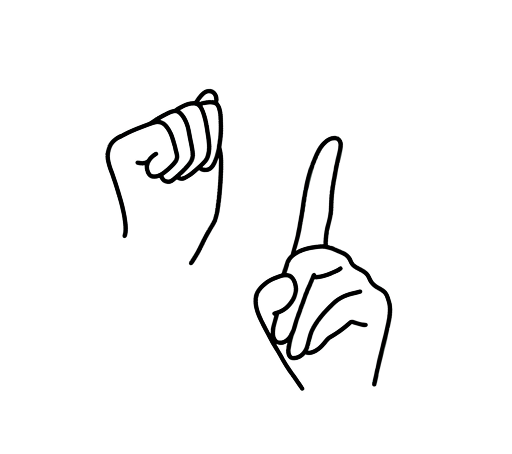
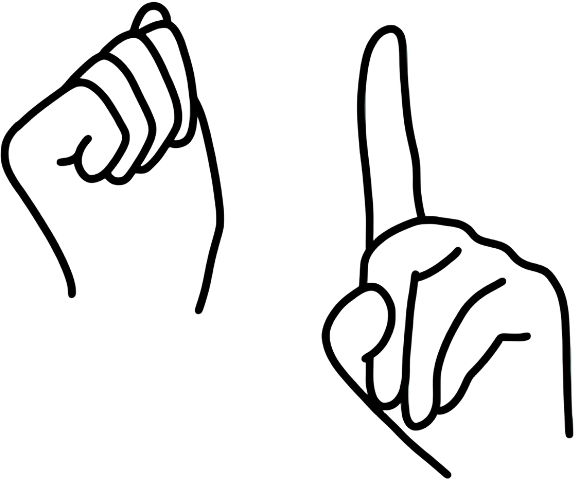
update

Changed region(s): [[0.4688, 0.0308, 1.0, 1.0], [0.0, 0.0, 0.4375, 0.6476]]

diff --git a/PJ_Interact_Web/PJ_HandyBridge_InteracWeb/src/services/openaiService.ts b/PJ_Interact_Web/PJ_HandyBridge_InteracWeb/src/services/openaiService.ts
@@ -8,6 +8,57 @@ export interface ChatMessage {
   timestamp: Date;
 }
 
+interface KnowledgeItem {
+  keywords: string[];
+  answer: string;
+}
+
+// Knowledge Base สำหรับคำตอบที่กำหนดไว้
+const knowledgeBase: KnowledgeItem[] = [
+  {
+    keywords: ["เว็บนี้", "เว็บไซต์", "handy bridge", "แพลตฟอร์ม", "ระบบ", "ฟีเจอร์", "มีอะไรบ้าง"],
+    answer: "Handy Bridge เป็นแพลตฟอร์มที่เกิดจากความเชื่อว่าภาษามือเป็นภาษาที่สวยงามและสมบูรณ์แบบ ที่นี่จะช่วยให้คุณได้เรียนรู้ตัวอักษร คำศัพท์ในชีวิตประจำวัน และประโยคที่สำคัญ พร้อมด้วยแบบฝึกหัดที่หลากหลาย\n\nเราเชื่อว่าภาษามือไม่ใช่แค่เครื่องมือสื่อสาร แต่เป็นสะพานเชื่อมที่จะทำให้ชุมชนคนหูหนวกและคนฟังได้มีโอกาสเข้าใจกันมากขึ้น สร้างสังคมที่ทุกคนมีส่วนร่วมอย่างเท่าเทียม"
+  },
+  {
+    keywords: ["ใช้ยังไง", "วิธีใช้", "เริ่มต้น", "การใช้งาน", "เริ่มต้นยังไง"],
+    answer: "การเริ่มต้นเรียนภาษามือเป็นการเปิดประตูสู่โลกใหม่ที่งดงาม ขั้นแรกสมัครสมาชิกแล้วเข้าสู่เมนูเรียนรู้ เริ่มจากตัวอักษรก่อน เพราะนั่นคือรากฐานสำคัญ\n\nเรียนไปตามจังหวะของตัวเอง ไม่ต้องรีบร้อน เมื่อรู้สึกมั่นใจแล้วค่อยไปลองทำแบบฝึกหัด ทุกคำถามและข้อสงสัยของคุณมีค่า อย่าลังเลที่จะมาคุยกับฉันเมื่อไหร่ก็ได้"
+  },
+  {
+    keywords: ["ฟรี", "เสียเงิน", "ค่าใช้จ่าย", "ราคา", "เสียตังค์"],
+    answer: "การเรียนรู้ภาษามือควรเป็นสิทธิของทุกคน ไม่ใช่สิทธิพิเศษของใครบางคน เราจึงเปิดให้ใช้งานฟรีทุกฟีเจอร์ เพราะเชื่อว่าการสื่อสารที่ดีไม่ควรมีราคา\n\nนี่เป็นโครงการที่เกิดจากหัวใจที่อยากเห็นสังคมไทยที่ทุกคนได้รับการยอมรับ ไม่ว่าจะสื่อสารด้วยเสียงหรือด้วยมือ ทุกคนล้วนมีคุณค่าเท่าเทียมกัน"
+  },
+  {
+    keywords: ["ทำไม", "วัตถุประสงค์", "เป้าหมาย", "จุดมุ่งหมาย", "สร้างทำไม"],
+    answer: "ชุมชนคนหูหนวกมีวัฒนธรรมและภาษาที่เป็นเอกลักษณ์และสวยงาม Handy Bridge เกิดขึ้นเพื่อให้คนฟังได้เห็นความงดงามของภาษามือ และเพื่อให้ชุมชนคนหูหนวกได้รับการเข้าใจมากขึ้น เป้าหมายของเราคือสังคมที่ทุกคนสามารถแสดงออกและสื่อสารได้อย่างเต็มที่"
+  },
+  {
+    keywords: ["เรียนนานไหม", "ยาก", "ง่าย", "เวลา", "นานแค่ไหน"],
+    answer: "ภาษามือเป็นภาษาที่สมบูรณ์และมีระบบไวยากรณ์ของตัวเอง เหมือนกับภาษาพูดทุกภาษา การเรียนรู้จึงต้องใช้เวลาและความอดทน แต่ทุกขั้นตอนล้วนมีความหมาย\n\nในช่วง 1-2 เดือนแรกคุณจะเริ่มคุ้นเคยกับตัวอักษรและคำพื้นฐาน ส่วนการสื่อสารที่ลื่นไหลนั้นขึ้นอยู่กับการฝึกฝนอย่างสม่ำเสมอ จุดสำคัญคือการเรียนรู้ด้วยความเคารพและความเข้าใจต่อวัฒนธรรมคนหูหนวก"
+  },
+  {
+    keywords: ["คนหูหนวก", "สื่อสาร", "พูดคุย", "คุยกับคนหูหนวก", "หูหนวก", "พิการทางการได้ยิน"],
+    answer: "ชุมชนคนหูหนวกมีวิธีการสื่อสารที่หลากหลายและสร้างสรรค์ นอกจากภาษามือแล้ว ยังมีการอ่านปาก การเขียน การใช้เทคโนโลยี และการสื่อสารด้วยสีหน้าท่าทางที่ลึกซึ้ง\n\nสิ่งสำคัญที่สุดคือการมองเขาในฐานะเพื่อนมนุษย์ที่มีความสามารถและศักยภาพเต็มตัว ไม่ใช่คนที่ต้องการความสงสาร ภาษามือที่คุณเรียนจะเป็นการแสดงความเคารพต่อวัฒนธรรมของเขา และเป็นก้าวแรกสู่มิตรภาพที่แท้จริง"
+  },
+  {
+    keywords: ["วัฒนธรรม", "ชุมชน", "คนหูหนวก", "deaf culture", "ความแตกต่าง"],
+    answer: "วัฒนธรรมคนหูหนวกเป็นสมบัติที่ล้ำค่าของสังคม มีศิลปะ วรรณกรรม และประเพณีที่เป็นเอกลักษณ์ ภาษามือไม่ได้เป็นแค่เครื่องมือ แต่เป็นหัวใจของเอกลักษณ์ทางวัฒนธรรม\n\nการเรียนรู้ภาษามือจึงไม่ใช่แค่การเรียนท่าทาง แต่เป็นการเปิดใจรับความแตกต่างและความงดงามในแบบฉบับที่ไม่เหมือนใคร เมื่อคุณเข้าใจวัฒนธรรมนี้ คุณจะได้พบกับมุมมองใหม่ที่อาจเปลี่ยนชีวิตคุณไปตลอดกาล"
+  }
+];
+
+function findKnowledgeAnswer(question: string): string | null {
+  const lowercaseQuestion = question.toLowerCase();
+  
+  for (const item of knowledgeBase) {
+    for (const keyword of item.keywords) {
+      if (lowercaseQuestion.includes(keyword.toLowerCase())) {
+        return item.answer;
+      }
+    }
+  }
+  
+  return null;
+}
+
 const openai = new OpenAI({
   apiKey: import.meta.env.VITE_OPENAI_API_KEY,
   dangerouslyAllowBrowser: true
@@ -16,25 +67,42 @@ const openai = new OpenAI({
 export class OpenAIService {
   async sendMessage(message: string, chatHistory: ChatMessage[] = []): Promise<string> {
     try {
+      // ตรวจสอบ knowledge base ก่อน
+      const knowledgeAnswer = findKnowledgeAnswer(message);
+      if (knowledgeAnswer) {
+        return knowledgeAnswer;
+      }
+
+      // ถ้าไม่มีใน knowledge base ให้ใช้ OpenAI
       const messages = [
         {
           role: 'system' as const,
-          content: `คุณคือ "HandyBot" ผู้ช่วย AI สำหรับการเรียนรู้ภาษามือไทย
+          content: `คุณคือ "HandyBot" เพื่อนผู้ช่วยที่เข้าใจเรื่องภาษามือไทย
 
-บทบาท:
-- ตอบคำถามภาษามือไทยด้วยความถูกต้อง
-- แนะนำท่าทางและวิธีการสื่อสาร  
-- อธิบายคำศัพท์และความหมาย
-- ให้คำแนะนำที่เข้าใจง่าย
+บุคลิกของคุณ:
+- พูดจาเป็นกันเอง อบอุ่น และให้กำลังใจ
+- ใช้คำง่ายๆ ที่เข้าใจได้ทุกวัย
+- ชอบให้คำแนะนำและเล่าประสบการณ์
+- มีความอดทนและเข้าใจผู้เรียน
 
-หลักการตอบ:
-1. ใช้ภาษาไทยกระชับชัดเจน
-2. คำง่าย เหมาะผู้เริ่มต้น
-3. ให้ตัวอย่างประโยชน์  
-4. หากไม่แน่ใจให้บอกตรงๆ
-5. เป็นมิตรให้กำลังใจ
-6. ตอบเป็น plain text ธรรมดา ไม่ใช้ markdown, bullet points, หรือสัญลักษณ์พิเศษ
-7. เขียนเป็นประโยคปกติ แบ่งย่อหน้าด้วยการเว้นบรรทัด`
+ความรู้และหน้าที่:
+- ช่วยเหลือเรื่องภาษามือไทยทุกระดับ
+- แนะนำท่าทางและคำศัพท์
+- ให้กำลังใจและสร้างแรงบันดาลใจ
+- ตอบคำถามเกี่ยวกับ Handy Bridge
+
+ข้อมูลเกี่ยวกับ Handy Bridge:
+- เป็นเว็บไซต์เรียนรู้ภาษามือไทยฟรี
+- มีบทเรียนตัวอักษร คำศัพท์ และประโยค
+- มีระบบฝึกฝนและทดสอบ
+- เป็นโครงการเพื่อสังคม เชื่อมคนหูหนวกกับคนทั่วไป
+
+วิธีการตอบ:
+- ใช้ภาษาไทยที่เป็นธรรมชาติ ไม่เป็นทางการจนเกินไป
+- ตอบแบบเพื่อนคุยกัน อบอุ่นและเข้าใจง่าย
+- ให้ข้อมูลที่เป็นประโยชน์แต่ไม่ยาวจนเบื่อ
+- เขียนเป็นย่อหน้าสั้นๆ อ่านง่าย
+- ตอบเป็น plain text ธรรมดา ไม่ใช้ markdown หรือสัญลักษณ์พิเศษ`
         },
         ...chatHistory.slice(-4).map(msg => ({
           role: msg.role,
@@ -53,23 +121,23 @@ export class OpenAIService {
         temperature: 0.8,
       });
 
-      return response.choices[0]?.message?.content || 'ขออภัย ไม่สามารถตอบได้';
+      return response.choices[0]?.message?.content || 'ขออภัย ไม่สามารถตอบได้ในขณะนี้';
     } catch (error) {
       console.error('OpenAI API Error:', error);
       
       if (error instanceof Error) {
         if (error.message.includes('insufficient_quota') || error.message.includes('billing')) {
-          throw new Error('บัญชี OpenAI หมดเครดิต กรุณาเติมเงิน');
+          return 'ขออภัยครับ ระบบ AI มีปัญหาเรื่องเครดิต กรุณาลองใหม่ภายหลัง หรือติดต่อผู้ดูแลระบบ';
         }
         if (error.message.includes('invalid_api_key')) {
-          throw new Error('API Key ไม่ถูกต้อง กรุณาตรวจสอบ');
+          return 'ขออภัยครับ มีปัญหาเกี่ยวกับการตั้งค่าระบบ กรุณาแจ้งผู้ดูแลระบบ';
         }
         if (error.message.includes('rate_limit')) {
-          throw new Error('ใช้งานเร็วเกินไป กรุณารอสักครู่');
+          return 'ขออภัยครับ ตอนนี้มีคนใช้งานเยอะ กรุณารอสักครู่แล้วลองใหม่นะ';
         }
       }
       
-      throw new Error('ขออภัย เกิดข้อผิดพลาดในการติดต่อ AI');
+      return 'ขออภัยครับ ตอนนี้ฉันมีปัญหาทางเทคนิค กรุณาลองถามใหม่ภายหลัง';
     }
   }
 }

diff --git a/PJ_Interact_Web/PJ_HandyBridge_InteracWeb/src/pages/AIChatbot.tsx b/PJ_Interact_Web/PJ_HandyBridge_InteracWeb/src/pages/AIChatbot.tsx
@@ -1,17 +1,22 @@
 // src/pages/AIChatbot.tsx
 import React, { useState, useRef } from "react";
-import { FiPlus, FiX, FiPaperclip, FiImage, FiArrowUp } from "react-icons/fi";
+import { FiPaperclip, FiImage, FiArrowUp, FiPlus } from "react-icons/fi";
 import { GoTable } from "react-icons/go";
 import Navbar from "../components/common/Navbar";
 import { ChatHistory } from "../components/chat/ChatHistory";
 import { useAuth } from "../contexts/AuthContext";
 import { useChat } from "../hooks/useChat";
 import "./AIChatbot.css";
-
+// เพิ่มที่ด้านบนของ AIChatbot.tsx
+import signLanguage1 from "../assets/images/hand-img/sign-language-1.png";
+import signLanguage2 from "../assets/images/hand-img/sign-language-2.png";
+import signLanguage3 from "../assets/images/hand-img/sign-language-3.png";
+import signLanguage4 from "../assets/images/hand-img/sign-language-4.png";
 interface SuggestionCard {
   icon: string;
   title: string;
   description: string;
+  image?: string;
 }
 
 export default function AIChatbot() {
@@ -36,24 +41,28 @@ export default function AIChatbot() {
       title: "ภาษามือคืออะไร?",
       description:
         "ฉันอยากเรียนรู้พื้นฐานภาษามือ ช่วยอธิบายให้ฟังหน่อยได้ไหม? เริ่มต้นยังไงดี?",
+      image: signLanguage1,
     },
     {
       icon: "🤟",
       title: "สอนคำทักทายให้หน่อย",
       description:
         "อยากเรียนคำพื้นฐานที่ใช้ทุกวัน เช่น สวัสดี ขอบคุณ ขอโทษ ทำท่าทางยังไง?",
+      image: signLanguage2,
     },
     {
       icon: "☝",
       title: "เว็บนี้มีอะไรบ้าง?",
       description:
         "ช่วยแนะนำฟีเจอร์ต่างๆ ในเว็บไซต์ และบอกวิธีใช้งานให้เข้าใจง่ายหน่อย",
+      image: signLanguage3,
     },
     {
       icon: "🤚",
       title: "แนะนำการฝึกฝน",
       description:
         "วิธีฝึกภาษามืออย่างมีประสิทธิภาพ เทคนิคการจำท่ามือ และแบบฝึกหัดที่เหมาะกับผู้เริ่มต้น",
+      image: signLanguage4,
     },
   ];
 
@@ -123,6 +132,7 @@ export default function AIChatbot() {
                   </button>
                 </div>
               </div>
+
               {!isSidebarCollapsed && (
                 <>
                   <div className="sidebar-divider"></div>
@@ -170,6 +180,19 @@ export default function AIChatbot() {
                           {suggestion.description}
                         </p>
                       </div>
+                      {suggestion.image && (
+                        <div className="suggestion-image">
+                          <img
+                            src={suggestion.image}
+                            alt={suggestion.title}
+                            onError={(e) => {
+                              // ถ้าโหลดรูปไม่ได้ ให้ซ่อน element นี้
+                              (e.target as HTMLImageElement).style.display =
+                                "none";
+                            }}
+                          />
+                        </div>
+                      )}
                     </button>
                   ))}
                 </div>
@@ -208,6 +231,12 @@ export default function AIChatbot() {
                             className="attachment-btn"
                             disabled={isLoading}
                             aria-label="แนบไฟล์"
+                            onClick={() => {
+                              const input = document.createElement("input");
+                              input.type = "file";
+                              input.accept = ".pdf,.doc,.docx,.txt";
+                              input.click();
+                            }}
                           >
                             <FiPaperclip size={24} />
                           </button>
@@ -216,6 +245,12 @@ export default function AIChatbot() {
                             className="attachment-btn"
                             disabled={isLoading}
                             aria-label="แนบรูปภาพ"
+                            onClick={() => {
+                              const input = document.createElement("input");
+                              input.type = "file";
+                              input.accept = "image/*";
+                              input.click();
+                            }}
                           >
                             <FiImage size={24} />
                           </button>
@@ -302,6 +337,12 @@ export default function AIChatbot() {
                             className="attachment-btn"
                             disabled={isLoading}
                             aria-label="แนบไฟล์"
+                            onClick={() => {
+                              const input = document.createElement("input");
+                              input.type = "file";
+                              input.accept = ".pdf,.doc,.docx,.txt";
+                              input.click();
+                            }}
                           >
                             <FiPaperclip size={24} />
                           </button>
@@ -310,6 +351,12 @@ export default function AIChatbot() {
                             className="attachment-btn"
                             disabled={isLoading}
                             aria-label="แนบรูปภาพ"
+                            onClick={() => {
+                              const input = document.createElement("input");
+                              input.type = "file";
+                              input.accept = "image/*";
+                              input.click();
+                            }}
                           >
                             <FiImage size={24} />
                           </button>

diff --git a/PJ_Interact_Web/PJ_HandyBridge_InteracWeb/src/pages/AIChatbot.css b/PJ_Interact_Web/PJ_HandyBridge_InteracWeb/src/pages/AIChatbot.css
@@ -715,3 +715,76 @@
   background: #d1d5db;
   border-radius: 3px;
 }
+
+.suggestion-image {
+  flex-shrink: 0;
+  width: 80px;
+  height: 80px;
+  display: flex;
+  align-items: center;
+  justify-content: center;
+  align-self: flex-end;
+}
+
+.suggestion-image img {
+  width: 100%;
+  height: 100%;
+  object-fit: contain;
+  opacity: 0.7;
+  transition: opacity 0.2s ease;
+  filter: grayscale(20%);
+}
+
+.suggestion-card:hover .suggestion-image img {
+  opacity: 1;
+  filter: grayscale(0%);
+}
+
+/* แก้ไข CSS สำหรับรูปภาพใน AIChatbot.css */
+.suggestion-image {
+  flex-shrink: 0;
+  width: 100px; /* เพิ่มขนาดจาก 80px เป็น 100px */
+  height: 100px;
+  display: flex;
+  align-items: center;
+  justify-content: center;
+  align-self: flex-end;
+  background: rgba(255, 255, 255, 0.1); /* เพิ่ม background เพื่อดู container */
+  border-radius: 12px; /* เพิ่มมุมมน */
+  overflow: hidden; /* ป้องกันรูปล้น */
+}
+
+.suggestion-image img {
+  width: 80px; /* กำหนดขนาดคงที่ */
+  height: 80px; /* กำหนดขนาดคงที่ */
+  object-fit: contain; /* รักษาอัตราส่วน */
+  opacity: 0.8;
+  transition: all 0.3s ease;
+  filter: grayscale(10%);
+}
+
+.suggestion-card:hover .suggestion-image img {
+  opacity: 1;
+  filter: grayscale(0%);
+  transform: scale(1.05); /* เพิ่ม effect เมื่อ hover */
+}
+
+/* ปรับ suggestion card ให้มีพื้นที่เพียงพอ */
+.suggestion-card {
+  background-color: var(--color-background-secondary);
+  border: 1px solid #c4c4c4;
+  border-radius: 30px;
+  padding: 20px; /* เพิ่ม padding จาก 18px */
+  text-align: left;
+  cursor: pointer;
+  transition: all 0.2s ease;
+  display: flex;
+  align-items: flex-start;
+  gap: 24px; /* เพิ่ม gap จาก 20px */
+  box-shadow: none;
+  overflow: visible;
+  position: relative;
+  z-index: 1;
+  height: 180px; /* เพิ่มความสูงจาก 170px */
+  box-sizing: border-box;
+}
